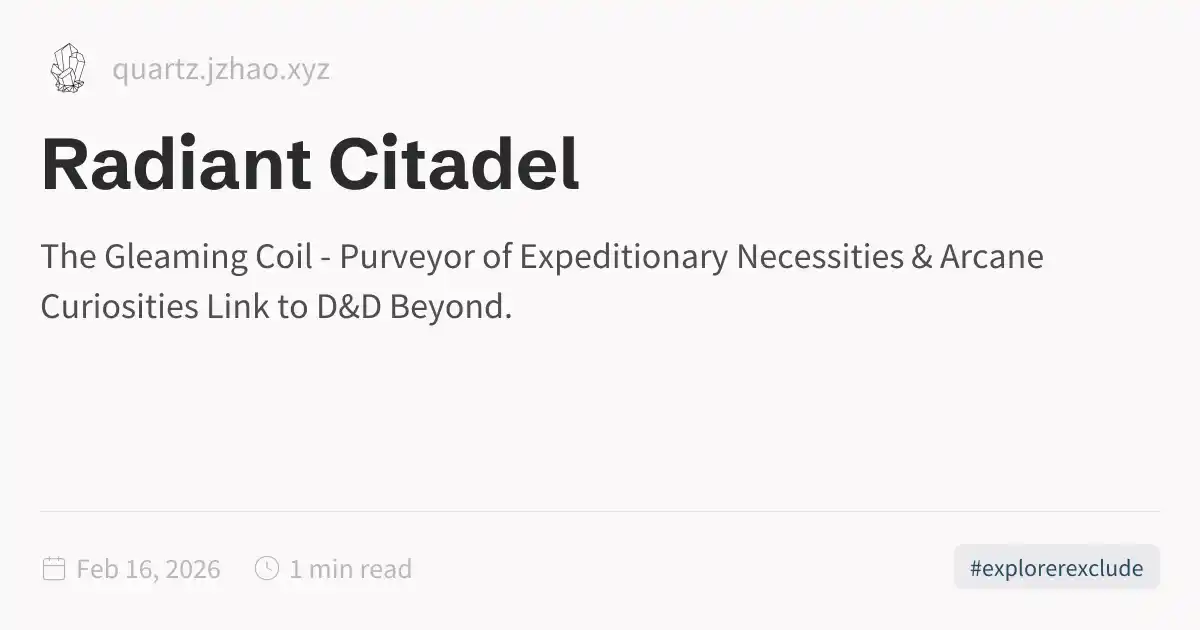
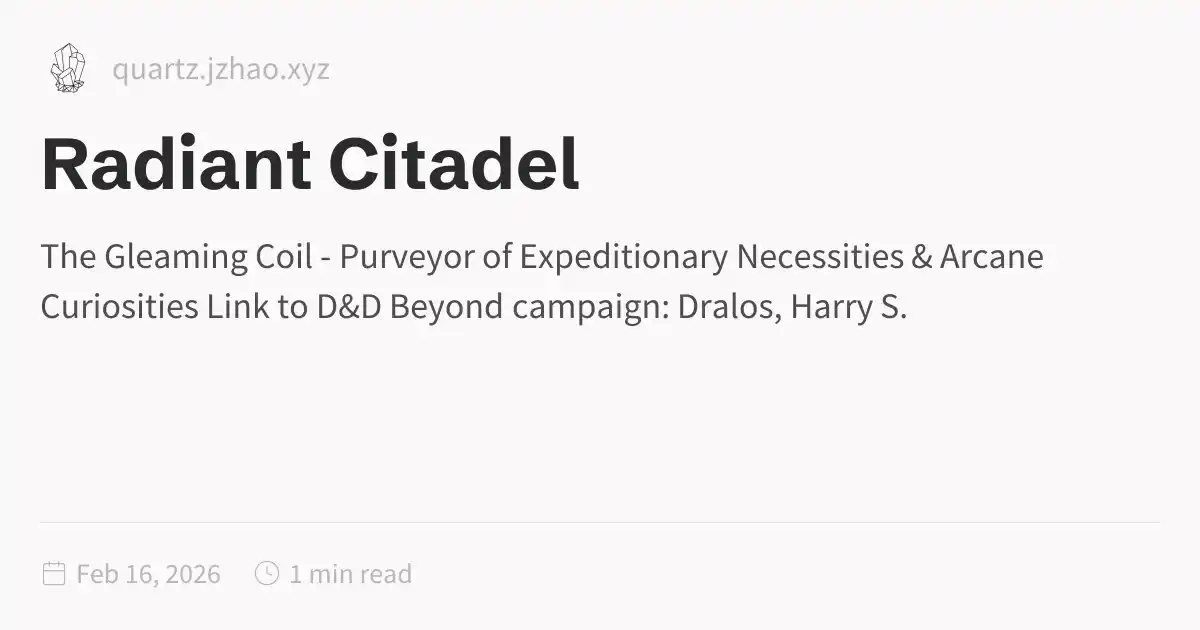
unexclude files

diff --git a/workshop/The-Gleaming-Coil.html b/workshop/The-Gleaming-Coil.html
@@ -115,7 +115,7 @@ pre:hover > .expand-button {
   padding: 0 12px;
   font-size: 14px;
 }
[2 lines of base64/hex data omitted]
 <h2 id="purveyor-of-expeditionary-necessities--arcane-curiosities">Purveyor of Expeditionary Necessities &amp; Arcane Curiosities<a role="anchor" aria-hidden="true" tabindex="-1" data-no-popover="true" href="#purveyor-of-expeditionary-necessities--arcane-curiosities" class="internal"><svg width="18" height="18" viewBox="0 0 24 24" fill="none" stroke="currentColor" stroke-width="2" stroke-linecap="round" stroke-linejoin="round"><path d="M10 13a5 5 0 0 0 7.54.54l3-3a5 5 0 0 0-7.07-7.07l-1.72 1.71"></path><path d="M14 11a5 5 0 0 0-7.54-.54l-3 3a5 5 0 0 0 7.07 7.07l1.71-1.71"></path></svg></a></h2>
 <p><em>Located in the bustling Trade Disc of the Radiant Citadel, nestled between a perfume merchant and a cartographer’s studio</em></p>
 <p><em>This content was generated with Claude.ai</em></p>
@@ -262,7 +262,7 @@ pre:hover > .expand-button {
                 C46.042,11.405,47.451,12,49,12c3.309,0,6-2.691,6-6S52.309,0,49,0z M11,9c0-1.103,0.897-2,2-2s2,0.897,2,2s-0.897,2-2,2
                 S11,10.103,11,9z M6,51c-2.206,0-4-1.794-4-4s1.794-4,4-4s4,1.794,4,4S8.206,51,6,51z M33,49c0,2.206-1.794,4-4,4s-4-1.794-4-4
                 s1.794-4,4-4S33,46.794,33,49z M29,31c-3.309,0-6-2.691-6-6s2.691-6,6-6s6,2.691,6,6S32.309,31,29,31z M47,41c0,1.103-0.897,2-2,2
-                s-2-0.897-2-2s0.897-2,2-2S47,39.897,47,41z M49,10c-2.206,0-4-1.794-4-4s1.794-4,4-4s4,1.794,4,4S51.206,10,49,10z"></path></svg></button></div><div class="global-graph-outer"><div class="global-graph-container" data-cfg="{&quot;drag&quot;:true,&quot;zoom&quot;:true,&quot;depth&quot;:-1,&quot;scale&quot;:0.9,&quot;repelForce&quot;:0.5,&quot;centerForce&quot;:0.2,&quot;linkDistance&quot;:30,&quot;fontSize&quot;:0.6,&quot;opacityScale&quot;:1,&quot;showTags&quot;:true,&quot;removeTags&quot;:[],&quot;focusOnHover&quot;:true,&quot;enableRadial&quot;:true}"></div></div></div><div class="toc desktop-only"><button type="button" class="toc-header" aria-controls="toc-8" aria-expanded="true"><h3>Table of Contents</h3><svg xmlns="http://www.w3.org/2000/svg" width="24" height="24" viewBox="0 0 24 24" fill="none" stroke="currentColor" stroke-width="2" stroke-linecap="round" stroke-linejoin="round" class="fold"><polyline points="6 9 12 15 18 9"></polyline></svg></button><ul id="list-1" class="toc-content overflow"><li class="depth-0"><a href="#the-gleaming-coil---shop-in-the-radiant-citadel-trade-discal" data-for="the-gleaming-coil---shop-in-the-radiant-citadel-trade-discal">The Gleaming Coil - Shop in the Radiant Citadel Trade Discal</a></li><li class="depth-1"><a href="#purveyor-of-expeditionary-necessities--arcane-curiosities" data-for="purveyor-of-expeditionary-necessities--arcane-curiosities">Purveyor of Expeditionary Necessities &amp; Arcane Curiosities</a></li><li class="depth-2"><a href="#the-shop" data-for="the-shop">The Shop</a></li><li class="depth-1"><a href="#standard-adventuring-gear" data-for="standard-adventuring-gear">Standard Adventuring Gear</a></li><li class="depth-1"><a href="#magical-items-for-sale" data-for="magical-items-for-sale">Magical Items for Sale</a></li><li class="depth-2"><a href="#common-magic-items-100-gp-each" data-for="common-magic-items-100-gp-each">Common Magic Items (100 gp each)</a></li><li class="depth-2"><a href="#uncommon-magic-items" data-for="uncommon-magic-items">Uncommon Magic Items</a></li><li class="depth-2"><a href="#rare-magic-items-special-order" data-for="rare-magic-items-special-order">Rare Magic Items (Special Order)</a></li><li class="depth-1"><a href="#potions--consumables" data-for="potions--consumables">Potions &amp; Consumables</a></li><li class="depth-1"><a href="#services" data-for="services">Services</a></li><li class="depth-0"><a href="#additional-specialized-items-at-the-gleaming-coil" data-for="additional-specialized-items-at-the-gleaming-coil">Additional Specialized Items at The Gleaming Coil</a></li><li class="depth-1"><a href="#for-the-warlock" data-for="for-the-warlock">For the Warlock</a></li><li class="depth-2"><a href="#uncommon-items" data-for="uncommon-items">Uncommon Items</a></li><li class="depth-1"><a href="#for-the-cleric" data-for="for-the-cleric">For the Cleric</a></li><li class="depth-2"><a href="#uncommon-items-1" data-for="uncommon-items-1">Uncommon Items</a></li><li class="depth-1"><a href="#for-the-goliath-barbarian" data-for="for-the-goliath-barbarian">For the Goliath Barbarian</a></li><li class="depth-2"><a href="#uncommon-items-2" data-for="uncommon-items-2">Uncommon Items</a></li><li class="depth-1"><a href="#for-the-rogue" data-for="for-the-rogue">For the Rogue</a></li><li class="depth-2"><a href="#uncommon-items-3" data-for="uncommon-items-3">Uncommon Items</a></li><li class="depth-1"><a href="#additional-services-for-specialists" data-for="additional-services-for-specialists">Additional Services for Specialists</a></li><li class="depth-1"><a href="#kalistas-special-offer" data-for="kalistas-special-offer">Kalista’s Special Offer</a></li><li class="overflow-end"></li></ul></div><div class="backlinks"><h3>Backlinks</h3><ul id="list-2" class="overflow"><li><a href="./Radiant-Citadel" class="internal">Radiant Citadel</a></li><li class="overflow-end"></li></ul></div></div><footer class><p>Created with <a href="https://quartz.jzhao.xyz/">Quartz v4.5.2</a> © 2026</p><ul><li><a href="https://github.com/jackyzha0/quartz">GitHub</a></li><li><a href="https://discord.gg/cRFFHYye7t">Discord Community</a></li></ul></footer></div></div></body><script type="application/javascript" data-persist="true">function n(){let t=this.parentElement;t.classList.toggle("is-collapsed");let e=t.getElementsByClassName("callout-content")[0];if(!e)return;let l=t.classList.contains("is-collapsed");e.style.gridTemplateRows=l?"0fr":"1fr"}function c(){let t=document.getElementsByClassName("callout is-collapsible");for(let e of t){let l=e.getElementsByClassName("callout-title")[0],s=e.getElementsByClassName("callout-content")[0];if(!l||!s)continue;l.addEventListener("click",n),window.addCleanup(()=>l.removeEventListener("click",n));let o=e.classList.contains("is-collapsed");s.style.gridTemplateRows=o?"0fr":"1fr"}}document.addEventListener("nav",c);
+                s-2-0.897-2-2s0.897-2,2-2S47,39.897,47,41z M49,10c-2.206,0-4-1.794-4-4s1.794-4,4-4s4,1.794,4,4S51.206,10,49,10z"></path></svg></button></div><div class="global-graph-outer"><div class="global-graph-container" data-cfg="{&quot;drag&quot;:true,&quot;zoom&quot;:true,&quot;depth&quot;:-1,&quot;scale&quot;:0.9,&quot;repelForce&quot;:0.5,&quot;centerForce&quot;:0.2,&quot;linkDistance&quot;:30,&quot;fontSize&quot;:0.6,&quot;opacityScale&quot;:1,&quot;showTags&quot;:true,&quot;removeTags&quot;:[],&quot;focusOnHover&quot;:true,&quot;enableRadial&quot;:true}"></div></div></div><div class="toc desktop-only"><button type="button" class="toc-header" aria-controls="toc-24" aria-expanded="true"><h3>Table of Contents</h3><svg xmlns="http://www.w3.org/2000/svg" width="24" height="24" viewBox="0 0 24 24" fill="none" stroke="currentColor" stroke-width="2" stroke-linecap="round" stroke-linejoin="round" class="fold"><polyline points="6 9 12 15 18 9"></polyline></svg></button><ul id="list-1" class="toc-content overflow"><li class="depth-0"><a href="#the-gleaming-coil---shop-in-the-radiant-citadel-trade-discal" data-for="the-gleaming-coil---shop-in-the-radiant-citadel-trade-discal">The Gleaming Coil - Shop in the Radiant Citadel Trade Discal</a></li><li class="depth-1"><a href="#purveyor-of-expeditionary-necessities--arcane-curiosities" data-for="purveyor-of-expeditionary-necessities--arcane-curiosities">Purveyor of Expeditionary Necessities &amp; Arcane Curiosities</a></li><li class="depth-2"><a href="#the-shop" data-for="the-shop">The Shop</a></li><li class="depth-1"><a href="#standard-adventuring-gear" data-for="standard-adventuring-gear">Standard Adventuring Gear</a></li><li class="depth-1"><a href="#magical-items-for-sale" data-for="magical-items-for-sale">Magical Items for Sale</a></li><li class="depth-2"><a href="#common-magic-items-100-gp-each" data-for="common-magic-items-100-gp-each">Common Magic Items (100 gp each)</a></li><li class="depth-2"><a href="#uncommon-magic-items" data-for="uncommon-magic-items">Uncommon Magic Items</a></li><li class="depth-2"><a href="#rare-magic-items-special-order" data-for="rare-magic-items-special-order">Rare Magic Items (Special Order)</a></li><li class="depth-1"><a href="#potions--consumables" data-for="potions--consumables">Potions &amp; Consumables</a></li><li class="depth-1"><a href="#services" data-for="services">Services</a></li><li class="depth-0"><a href="#additional-specialized-items-at-the-gleaming-coil" data-for="additional-specialized-items-at-the-gleaming-coil">Additional Specialized Items at The Gleaming Coil</a></li><li class="depth-1"><a href="#for-the-warlock" data-for="for-the-warlock">For the Warlock</a></li><li class="depth-2"><a href="#uncommon-items" data-for="uncommon-items">Uncommon Items</a></li><li class="depth-1"><a href="#for-the-cleric" data-for="for-the-cleric">For the Cleric</a></li><li class="depth-2"><a href="#uncommon-items-1" data-for="uncommon-items-1">Uncommon Items</a></li><li class="depth-1"><a href="#for-the-goliath-barbarian" data-for="for-the-goliath-barbarian">For the Goliath Barbarian</a></li><li class="depth-2"><a href="#uncommon-items-2" data-for="uncommon-items-2">Uncommon Items</a></li><li class="depth-1"><a href="#for-the-rogue" data-for="for-the-rogue">For the Rogue</a></li><li class="depth-2"><a href="#uncommon-items-3" data-for="uncommon-items-3">Uncommon Items</a></li><li class="depth-1"><a href="#additional-services-for-specialists" data-for="additional-services-for-specialists">Additional Services for Specialists</a></li><li class="depth-1"><a href="#kalistas-special-offer" data-for="kalistas-special-offer">Kalista’s Special Offer</a></li><li class="overflow-end"></li></ul></div><div class="backlinks"><h3>Backlinks</h3><ul id="list-2" class="overflow"><li><a href="./Radiant-Citadel" class="internal">Radiant Citadel</a></li><li class="overflow-end"></li></ul></div></div><footer class><p>Created with <a href="https://quartz.jzhao.xyz/">Quartz v4.5.2</a> © 2026</p><ul><li><a href="https://github.com/jackyzha0/quartz">GitHub</a></li><li><a href="https://discord.gg/cRFFHYye7t">Discord Community</a></li></ul></footer></div></div></body><script type="application/javascript" data-persist="true">function n(){let t=this.parentElement;t.classList.toggle("is-collapsed");let e=t.getElementsByClassName("callout-content")[0];if(!e)return;let l=t.classList.contains("is-collapsed");e.style.gridTemplateRows=l?"0fr":"1fr"}function c(){let t=document.getElementsByClassName("callout is-collapsible");for(let e of t){let l=e.getElementsByClassName("callout-title")[0],s=e.getElementsByClassName("callout-content")[0];if(!l||!s)continue;l.addEventListener("click",n),window.addCleanup(()=>l.removeEventListener("click",n));let o=e.classList.contains("is-collapsed");s.style.gridTemplateRows=o?"0fr":"1fr"}}document.addEventListener("nav",c);
 </script><script type="module" data-persist="true">function E(a,e){if(!a)return;function t(o){o.target===this&&(o.preventDefault(),o.stopPropagation(),e())}function n(o){o.key.startsWith("Esc")&&(o.preventDefault(),e())}a?.addEventListener("click",t),window.addCleanup(()=>a?.removeEventListener("click",t)),document.addEventListener("keydown",n),window.addCleanup(()=>document.removeEventListener("keydown",n))}function f(a){for(;a.firstChild;)a.removeChild(a.firstChild)}var m=class{constructor(e,t){this.container=e;this.content=t;this.setupEventListeners(),this.setupNavigationControls(),this.resetTransform()}isDragging=!1;startPan={x:0,y:0};currentPan={x:0,y:0};scale=1;MIN_SCALE=.5;MAX_SCALE=3;cleanups=[];setupEventListeners(){let e=this.onMouseDown.bind(this),t=this.onMouseMove.bind(this),n=this.onMouseUp.bind(this),o=this.onTouchStart.bind(this),r=this.onTouchMove.bind(this),i=this.onTouchEnd.bind(this),s=this.resetTransform.bind(this);this.container.addEventListener("mousedown",e),document.addEventListener("mousemove",t),document.addEventListener("mouseup",n),this.container.addEventListener("touchstart",o,{passive:!1}),document.addEventListener("touchmove",r,{passive:!1}),document.addEventListener("touchend",i),window.addEventListener("resize",s),this.cleanups.push(()=>this.container.removeEventListener("mousedown",e),()=>document.removeEventListener("mousemove",t),()=>document.removeEventListener("mouseup",n),()=>this.container.removeEventListener("touchstart",o),()=>document.removeEventListener("touchmove",r),()=>document.removeEventListener("touchend",i),()=>window.removeEventListener("resize",s))}cleanup(){for(let e of this.cleanups)e()}setupNavigationControls(){let e=document.createElement("div");e.className="mermaid-controls";let t=this.createButton("+",()=>this.zoom(.1)),n=this.createButton("-",()=>this.zoom(-.1)),o=this.createButton("Reset",()=>this.resetTransform());e.appendChild(n),e.appendChild(o),e.appendChild(t),this.container.appendChild(e)}createButton(e,t){let n=document.createElement("button");return n.textContent=e,n.className="mermaid-control-button",n.addEventListener("click",t),window.addCleanup(()=>n.removeEventListener("click",t)),n}onMouseDown(e){e.button===0&&(this.isDragging=!0,this.startPan={x:e.clientX-this.currentPan.x,y:e.clientY-this.currentPan.y},this.container.style.cursor="grabbing")}onMouseMove(e){this.isDragging&&(e.preventDefault(),this.currentPan={x:e.clientX-this.startPan.x,y:e.clientY-this.startPan.y},this.updateTransform())}onMouseUp(){this.isDragging=!1,this.container.style.cursor="grab"}onTouchStart(e){if(e.touches.length!==1)return;this.isDragging=!0;let t=e.touches[0];this.startPan={x:t.clientX-this.currentPan.x,y:t.clientY-this.currentPan.y}}onTouchMove(e){if(!this.isDragging||e.touches.length!==1)return;e.preventDefault();let t=e.touches[0];this.currentPan={x:t.clientX-this.startPan.x,y:t.clientY-this.startPan.y},this.updateTransform()}onTouchEnd(){this.isDragging=!1}zoom(e){let t=Math.min(Math.max(this.scale+e,this.MIN_SCALE),this.MAX_SCALE),n=this.content.getBoundingClientRect(),o=n.width/2,r=n.height/2,i=t-this.scale;this.currentPan.x-=o*i,this.currentPan.y-=r*i,this.scale=t,this.updateTransform()}updateTransform(){this.content.style.transform=`translate(${this.currentPan.x}px, ${this.currentPan.y}px) scale(${this.scale})`}resetTransform(){let t=this.content.querySelector("svg").getBoundingClientRect(),n=t.width/this.scale,o=t.height/this.scale;this.scale=1,this.currentPan={x:(this.container.clientWidth-n)/2,y:(this.container.clientHeight-o)/2},this.updateTransform()}},T=["--secondary","--tertiary","--gray","--light","--lightgray","--highlight","--dark","--darkgray","--codeFont"],y;document.addEventListener("nav",async()=>{let e=document.querySelector(".center").querySelectorAll("code.mermaid");if(e.length===0)return;y||=await import("https://cdnjs.cloudflare.com/ajax/libs/mermaid/11.4.0/mermaid.esm.min.mjs");let t=y.default,n=new WeakMap;for(let r of e)n.set(r,r.innerText);async function o(){for(let s of e){s.removeAttribute("data-processed");let c=n.get(s);c&&(s.innerHTML=c)}let r=T.reduce((s,c)=>(s[c]=window.getComputedStyle(document.documentElement).getPropertyValue(c),s),{}),i=document.documentElement.getAttribute("saved-theme")==="dark";t.initialize({startOnLoad:!1,securityLevel:"loose",theme:i?"dark":"base",themeVariables:{fontFamily:r["--codeFont"],primaryColor:r["--light"],primaryTextColor:r["--darkgray"],primaryBorderColor:r["--tertiary"],lineColor:r["--darkgray"],secondaryColor:r["--secondary"],tertiaryColor:r["--tertiary"],clusterBkg:r["--light"],edgeLabelBackground:r["--highlight"]}}),await t.run({nodes:e})}await o(),document.addEventListener("themechange",o),window.addCleanup(()=>document.removeEventListener("themechange",o));for(let r=0;r<e.length;r++){let v=function(){let g=l.querySelector("#mermaid-space"),h=l.querySelector(".mermaid-content");if(!h)return;f(h);let w=i.querySelector("svg").cloneNode(!0);h.appendChild(w),l.classList.add("active"),g.style.cursor="grab",u=new m(g,h)},M=function(){l.classList.remove("active"),u?.cleanup(),u=null},i=e[r],s=i.parentElement,c=s.querySelector(".clipboard-button"),d=s.querySelector(".expand-button"),p=window.getComputedStyle(c),L=c.offsetWidth+parseFloat(p.marginLeft||"0")+parseFloat(p.marginRight||"0");d.style.right=`calc(${L}px + 0.3rem)`,s.prepend(d);let l=s.querySelector("#mermaid-container");if(!l)return;let u=null;d.addEventListener("click",v),E(l,M),window.addCleanup(()=>{u?.cleanup(),d.removeEventListener("click",v)})}});
 </script><script src="https://cdn.jsdelivr.net/npm/katex@0.16.11/dist/contrib/copy-tex.min.js" type="application/javascript" data-persist="true"></script><script type="application/javascript" data-persist="true">
         const socket = new WebSocket('ws://localhost:3001')

diff --git a/workshop/Radiant-Citadel.html b/workshop/Radiant-Citadel.html
@@ -1,5 +1,5 @@
 <!DOCTYPE html>
-<html lang="en" dir="ltr"><head><title>Radiant Citadel</title><meta charset="utf-8"/><link rel="preconnect" href="https://fonts.googleapis.com"/><link rel="preconnect" href="https://fonts.gstatic.com"/><link rel="stylesheet" href="https://fonts.googleapis.com/css2?family=Schibsted Grotesk:wght@400;700&amp;family=Source Sans Pro:ital,wght@0,400;0,600;1,400;1,600&amp;family=IBM Plex Mono:wght@400;600&amp;display=swap"/><link rel="preconnect" href="https://cdnjs.cloudflare.com" crossorigin="anonymous"/><meta name="viewport" content="width=device-width, initial-scale=1.0"/><meta name="og:site_name" content="Quartz 4"/><meta property="og:title" content="Radiant Citadel"/><meta property="og:type" content="website"/><meta name="twitter:card" content="summary_large_image"/><meta name="twitter:title" content="Radiant Citadel"/><meta name="twitter:description" content="The Gleaming Coil - Purveyor of Expeditionary Necessities &amp; Arcane Curiosities Link to D&amp;D Beyond."/><meta property="og:description" content="The Gleaming Coil - Purveyor of Expeditionary Necessities &amp; Arcane Curiosities Link to D&amp;D Beyond."/><meta property="og:image:alt" content="The Gleaming Coil - Purveyor of Expeditionary Necessities &amp; Arcane Curiosities Link to D&amp;D Beyond."/><meta property="twitter:domain" content="quartz.jzhao.xyz"/><meta property="og:url" content="https://quartz.jzhao.xyz/Radiant-Citadel"/><meta property="twitter:url" content="https://quartz.jzhao.xyz/Radiant-Citadel"/><link rel="icon" href="./static/icon.png"/><meta name="description" content="The Gleaming Coil - Purveyor of Expeditionary Necessities &amp; Arcane Curiosities Link to D&amp;D Beyond."/><meta name="generator" content="Quartz"/><link href="./index.css" rel="stylesheet" type="text/css" data-persist="true"/><style>.expand-button {
+<html lang="en" dir="ltr"><head><title>Radiant Citadel</title><meta charset="utf-8"/><link rel="preconnect" href="https://fonts.googleapis.com"/><link rel="preconnect" href="https://fonts.gstatic.com"/><link rel="stylesheet" href="https://fonts.googleapis.com/css2?family=Schibsted Grotesk:wght@400;700&amp;family=Source Sans Pro:ital,wght@0,400;0,600;1,400;1,600&amp;family=IBM Plex Mono:wght@400;600&amp;display=swap"/><link rel="preconnect" href="https://cdnjs.cloudflare.com" crossorigin="anonymous"/><meta name="viewport" content="width=device-width, initial-scale=1.0"/><meta name="og:site_name" content="Quartz 4"/><meta property="og:title" content="Radiant Citadel"/><meta property="og:type" content="website"/><meta name="twitter:card" content="summary_large_image"/><meta name="twitter:title" content="Radiant Citadel"/><meta name="twitter:description" content="The Gleaming Coil - Purveyor of Expeditionary Necessities &amp; Arcane Curiosities Link to D&amp;D Beyond campaign: Dralos, Harry S."/><meta property="og:description" content="The Gleaming Coil - Purveyor of Expeditionary Necessities &amp; Arcane Curiosities Link to D&amp;D Beyond campaign: Dralos, Harry S."/><meta property="og:image:alt" content="The Gleaming Coil - Purveyor of Expeditionary Necessities &amp; Arcane Curiosities Link to D&amp;D Beyond campaign: Dralos, Harry S."/><meta property="twitter:domain" content="quartz.jzhao.xyz"/><meta property="og:url" content="https://quartz.jzhao.xyz/Radiant-Citadel"/><meta property="twitter:url" content="https://quartz.jzhao.xyz/Radiant-Citadel"/><link rel="icon" href="./static/icon.png"/><meta name="description" content="The Gleaming Coil - Purveyor of Expeditionary Necessities &amp; Arcane Curiosities Link to D&amp;D Beyond campaign: Dralos, Harry S."/><meta name="generator" content="Quartz"/><link href="./index.css" rel="stylesheet" type="text/css" data-persist="true"/><style>.expand-button {
   position: absolute;
   display: flex;
   float: right;
@@ -115,8 +115,8 @@ pre:hover > .expand-button {
   padding: 0 12px;
   font-size: 14px;
 }
[1 lines of base64/hex data omitted]
-<p>Link to D&amp;D Beyond</p></article><hr/><div class="page-footer"></div></div><div class="right sidebar"><div class="graph"><h3>Graph View</h3><div class="graph-outer"><div class="graph-container" data-cfg="{&quot;drag&quot;:true,&quot;zoom&quot;:true,&quot;depth&quot;:1,&quot;scale&quot;:1.1,&quot;repelForce&quot;:0.5,&quot;centerForce&quot;:0.3,&quot;linkDistance&quot;:30,&quot;fontSize&quot;:0.6,&quot;opacityScale&quot;:1,&quot;showTags&quot;:true,&quot;removeTags&quot;:[],&quot;focusOnHover&quot;:false,&quot;enableRadial&quot;:false}"></div><button class="global-graph-icon" aria-label="Global Graph"><svg version="1.1" xmlns="http://www.w3.org/2000/svg" xmlns:xlink="http://www.w3.org/1999/xlink" x="0px" y="0px" viewBox="0 0 55 55" fill="currentColor" xml:space="preserve"><path d="M49,0c-3.309,0-6,2.691-6,6c0,1.035,0.263,2.009,0.726,2.86l-9.829,9.829C32.542,17.634,30.846,17,29,17
[1 lines of base64/hex data omitted]
+<p><a href="https://www.dndbeyond.com/campaigns/6397687" class="external">Link to D&amp;D Beyond campaign<svg aria-hidden="true" class="external-icon" style="max-width:0.8em;max-height:0.8em;" viewBox="0 0 512 512"><path d="M320 0H288V64h32 82.7L201.4 265.4 178.7 288 224 333.3l22.6-22.6L448 109.3V192v32h64V192 32 0H480 320zM32 32H0V64 480v32H32 456h32V480 352 320H424v32 96H64V96h96 32V32H160 32z"></path></svg></a>: Dralos, Harry S. Truman, Hamfast, and Ig</p></article><hr/><div class="page-footer"></div></div><div class="right sidebar"><div class="graph"><h3>Graph View</h3><div class="graph-outer"><div class="graph-container" data-cfg="{&quot;drag&quot;:true,&quot;zoom&quot;:true,&quot;depth&quot;:1,&quot;scale&quot;:1.1,&quot;repelForce&quot;:0.5,&quot;centerForce&quot;:0.3,&quot;linkDistance&quot;:30,&quot;fontSize&quot;:0.6,&quot;opacityScale&quot;:1,&quot;showTags&quot;:true,&quot;removeTags&quot;:[],&quot;focusOnHover&quot;:false,&quot;enableRadial&quot;:false}"></div><button class="global-graph-icon" aria-label="Global Graph"><svg version="1.1" xmlns="http://www.w3.org/2000/svg" xmlns:xlink="http://www.w3.org/1999/xlink" x="0px" y="0px" viewBox="0 0 55 55" fill="currentColor" xml:space="preserve"><path d="M49,0c-3.309,0-6,2.691-6,6c0,1.035,0.263,2.009,0.726,2.86l-9.829,9.829C32.542,17.634,30.846,17,29,17
                 s-3.542,0.634-4.898,1.688l-7.669-7.669C16.785,10.424,17,9.74,17,9c0-2.206-1.794-4-4-4S9,6.794,9,9s1.794,4,4,4
                 c0.74,0,1.424-0.215,2.019-0.567l7.669,7.669C21.634,21.458,21,23.154,21,25s0.634,3.542,1.688,4.897L10.024,42.562
                 C8.958,41.595,7.549,41,6,41c-3.309,0-6,2.691-6,6s2.691,6,6,6s6-2.691,6-6c0-1.035-0.263-2.009-0.726-2.86l12.829-12.829

diff --git a/workshop/tags/explorerexclude.html b/workshop/tags/explorerexclude.html
@@ -115,7 +115,7 @@ pre:hover > .expand-button {
   padding: 0 12px;
   font-size: 14px;
 }
[2 lines of base64/hex data omitted]
 </script><script type="module" data-persist="true">function E(a,e){if(!a)return;function t(o){o.target===this&&(o.preventDefault(),o.stopPropagation(),e())}function n(o){o.key.startsWith("Esc")&&(o.preventDefault(),e())}a?.addEventListener("click",t),window.addCleanup(()=>a?.removeEventListener("click",t)),document.addEventListener("keydown",n),window.addCleanup(()=>document.removeEventListener("keydown",n))}function f(a){for(;a.firstChild;)a.removeChild(a.firstChild)}var m=class{constructor(e,t){this.container=e;this.content=t;this.setupEventListeners(),this.setupNavigationControls(),this.resetTransform()}isDragging=!1;startPan={x:0,y:0};currentPan={x:0,y:0};scale=1;MIN_SCALE=.5;MAX_SCALE=3;cleanups=[];setupEventListeners(){let e=this.onMouseDown.bind(this),t=this.onMouseMove.bind(this),n=this.onMouseUp.bind(this),o=this.onTouchStart.bind(this),r=this.onTouchMove.bind(this),i=this.onTouchEnd.bind(this),s=this.resetTransform.bind(this);this.container.addEventListener("mousedown",e),document.addEventListener("mousemove",t),document.addEventListener("mouseup",n),this.container.addEventListener("touchstart",o,{passive:!1}),document.addEventListener("touchmove",r,{passive:!1}),document.addEventListener("touchend",i),window.addEventListener("resize",s),this.cleanups.push(()=>this.container.removeEventListener("mousedown",e),()=>document.removeEventListener("mousemove",t),()=>document.removeEventListener("mouseup",n),()=>this.container.removeEventListener("touchstart",o),()=>document.removeEventListener("touchmove",r),()=>document.removeEventListener("touchend",i),()=>window.removeEventListener("resize",s))}cleanup(){for(let e of this.cleanups)e()}setupNavigationControls(){let e=document.createElement("div");e.className="mermaid-controls";let t=this.createButton("+",()=>this.zoom(.1)),n=this.createButton("-",()=>this.zoom(-.1)),o=this.createButton("Reset",()=>this.resetTransform());e.appendChild(n),e.appendChild(o),e.appendChild(t),this.container.appendChild(e)}createButton(e,t){let n=document.createElement("button");return n.textContent=e,n.className="mermaid-control-button",n.addEventListener("click",t),window.addCleanup(()=>n.removeEventListener("click",t)),n}onMouseDown(e){e.button===0&&(this.isDragging=!0,this.startPan={x:e.clientX-this.currentPan.x,y:e.clientY-this.currentPan.y},this.container.style.cursor="grabbing")}onMouseMove(e){this.isDragging&&(e.preventDefault(),this.currentPan={x:e.clientX-this.startPan.x,y:e.clientY-this.startPan.y},this.updateTransform())}onMouseUp(){this.isDragging=!1,this.container.style.cursor="grab"}onTouchStart(e){if(e.touches.length!==1)return;this.isDragging=!0;let t=e.touches[0];this.startPan={x:t.clientX-this.currentPan.x,y:t.clientY-this.currentPan.y}}onTouchMove(e){if(!this.isDragging||e.touches.length!==1)return;e.preventDefault();let t=e.touches[0];this.currentPan={x:t.clientX-this.startPan.x,y:t.clientY-this.startPan.y},this.updateTransform()}onTouchEnd(){this.isDragging=!1}zoom(e){let t=Math.min(Math.max(this.scale+e,this.MIN_SCALE),this.MAX_SCALE),n=this.content.getBoundingClientRect(),o=n.width/2,r=n.height/2,i=t-this.scale;this.currentPan.x-=o*i,this.currentPan.y-=r*i,this.scale=t,this.updateTransform()}updateTransform(){this.content.style.transform=`translate(${this.currentPan.x}px, ${this.currentPan.y}px) scale(${this.scale})`}resetTransform(){let t=this.content.querySelector("svg").getBoundingClientRect(),n=t.width/this.scale,o=t.height/this.scale;this.scale=1,this.currentPan={x:(this.container.clientWidth-n)/2,y:(this.container.clientHeight-o)/2},this.updateTransform()}},T=["--secondary","--tertiary","--gray","--light","--lightgray","--highlight","--dark","--darkgray","--codeFont"],y;document.addEventListener("nav",async()=>{let e=document.querySelector(".center").querySelectorAll("code.mermaid");if(e.length===0)return;y||=await import("https://cdnjs.cloudflare.com/ajax/libs/mermaid/11.4.0/mermaid.esm.min.mjs");let t=y.default,n=new WeakMap;for(let r of e)n.set(r,r.innerText);async function o(){for(let s of e){s.removeAttribute("data-processed");let c=n.get(s);c&&(s.innerHTML=c)}let r=T.reduce((s,c)=>(s[c]=window.getComputedStyle(document.documentElement).getPropertyValue(c),s),{}),i=document.documentElement.getAttribute("saved-theme")==="dark";t.initialize({startOnLoad:!1,securityLevel:"loose",theme:i?"dark":"base",themeVariables:{fontFamily:r["--codeFont"],primaryColor:r["--light"],primaryTextColor:r["--darkgray"],primaryBorderColor:r["--tertiary"],lineColor:r["--darkgray"],secondaryColor:r["--secondary"],tertiaryColor:r["--tertiary"],clusterBkg:r["--light"],edgeLabelBackground:r["--highlight"]}}),await t.run({nodes:e})}await o(),document.addEventListener("themechange",o),window.addCleanup(()=>document.removeEventListener("themechange",o));for(let r=0;r<e.length;r++){let v=function(){let g=l.querySelector("#mermaid-space"),h=l.querySelector(".mermaid-content");if(!h)return;f(h);let w=i.querySelector("svg").cloneNode(!0);h.appendChild(w),l.classList.add("active"),g.style.cursor="grab",u=new m(g,h)},M=function(){l.classList.remove("active"),u?.cleanup(),u=null},i=e[r],s=i.parentElement,c=s.querySelector(".clipboard-button"),d=s.querySelector(".expand-button"),p=window.getComputedStyle(c),L=c.offsetWidth+parseFloat(p.marginLeft||"0")+parseFloat(p.marginRight||"0");d.style.right=`calc(${L}px + 0.3rem)`,s.prepend(d);let l=s.querySelector("#mermaid-container");if(!l)return;let u=null;d.addEventListener("click",v),E(l,M),window.addCleanup(()=>{u?.cleanup(),d.removeEventListener("click",v)})}});
 </script><script src="https://cdn.jsdelivr.net/npm/katex@0.16.11/dist/contrib/copy-tex.min.js" type="application/javascript" data-persist="true"></script><script type="application/javascript" data-persist="true">
         const socket = new WebSocket('ws://localhost:3001')

diff --git a/workshop/tags/index.html b/workshop/tags/index.html
@@ -115,7 +115,7 @@ pre:hover > .expand-button {
   padding: 0 12px;
   font-size: 14px;
 }
[2 lines of base64/hex data omitted]
 </script><script type="module" data-persist="true">function E(a,e){if(!a)return;function t(o){o.target===this&&(o.preventDefault(),o.stopPropagation(),e())}function n(o){o.key.startsWith("Esc")&&(o.preventDefault(),e())}a?.addEventListener("click",t),window.addCleanup(()=>a?.removeEventListener("click",t)),document.addEventListener("keydown",n),window.addCleanup(()=>document.removeEventListener("keydown",n))}function f(a){for(;a.firstChild;)a.removeChild(a.firstChild)}var m=class{constructor(e,t){this.container=e;this.content=t;this.setupEventListeners(),this.setupNavigationControls(),this.resetTransform()}isDragging=!1;startPan={x:0,y:0};currentPan={x:0,y:0};scale=1;MIN_SCALE=.5;MAX_SCALE=3;cleanups=[];setupEventListeners(){let e=this.onMouseDown.bind(this),t=this.onMouseMove.bind(this),n=this.onMouseUp.bind(this),o=this.onTouchStart.bind(this),r=this.onTouchMove.bind(this),i=this.onTouchEnd.bind(this),s=this.resetTransform.bind(this);this.container.addEventListener("mousedown",e),document.addEventListener("mousemove",t),document.addEventListener("mouseup",n),this.container.addEventListener("touchstart",o,{passive:!1}),document.addEventListener("touchmove",r,{passive:!1}),document.addEventListener("touchend",i),window.addEventListener("resize",s),this.cleanups.push(()=>this.container.removeEventListener("mousedown",e),()=>document.removeEventListener("mousemove",t),()=>document.removeEventListener("mouseup",n),()=>this.container.removeEventListener("touchstart",o),()=>document.removeEventListener("touchmove",r),()=>document.removeEventListener("touchend",i),()=>window.removeEventListener("resize",s))}cleanup(){for(let e of this.cleanups)e()}setupNavigationControls(){let e=document.createElement("div");e.className="mermaid-controls";let t=this.createButton("+",()=>this.zoom(.1)),n=this.createButton("-",()=>this.zoom(-.1)),o=this.createButton("Reset",()=>this.resetTransform());e.appendChild(n),e.appendChild(o),e.appendChild(t),this.container.appendChild(e)}createButton(e,t){let n=document.createElement("button");return n.textContent=e,n.className="mermaid-control-button",n.addEventListener("click",t),window.addCleanup(()=>n.removeEventListener("click",t)),n}onMouseDown(e){e.button===0&&(this.isDragging=!0,this.startPan={x:e.clientX-this.currentPan.x,y:e.clientY-this.currentPan.y},this.container.style.cursor="grabbing")}onMouseMove(e){this.isDragging&&(e.preventDefault(),this.currentPan={x:e.clientX-this.startPan.x,y:e.clientY-this.startPan.y},this.updateTransform())}onMouseUp(){this.isDragging=!1,this.container.style.cursor="grab"}onTouchStart(e){if(e.touches.length!==1)return;this.isDragging=!0;let t=e.touches[0];this.startPan={x:t.clientX-this.currentPan.x,y:t.clientY-this.currentPan.y}}onTouchMove(e){if(!this.isDragging||e.touches.length!==1)return;e.preventDefault();let t=e.touches[0];this.currentPan={x:t.clientX-this.startPan.x,y:t.clientY-this.startPan.y},this.updateTransform()}onTouchEnd(){this.isDragging=!1}zoom(e){let t=Math.min(Math.max(this.scale+e,this.MIN_SCALE),this.MAX_SCALE),n=this.content.getBoundingClientRect(),o=n.width/2,r=n.height/2,i=t-this.scale;this.currentPan.x-=o*i,this.currentPan.y-=r*i,this.scale=t,this.updateTransform()}updateTransform(){this.content.style.transform=`translate(${this.currentPan.x}px, ${this.currentPan.y}px) scale(${this.scale})`}resetTransform(){let t=this.content.querySelector("svg").getBoundingClientRect(),n=t.width/this.scale,o=t.height/this.scale;this.scale=1,this.currentPan={x:(this.container.clientWidth-n)/2,y:(this.container.clientHeight-o)/2},this.updateTransform()}},T=["--secondary","--tertiary","--gray","--light","--lightgray","--highlight","--dark","--darkgray","--codeFont"],y;document.addEventListener("nav",async()=>{let e=document.querySelector(".center").querySelectorAll("code.mermaid");if(e.length===0)return;y||=await import("https://cdnjs.cloudflare.com/ajax/libs/mermaid/11.4.0/mermaid.esm.min.mjs");let t=y.default,n=new WeakMap;for(let r of e)n.set(r,r.innerText);async function o(){for(let s of e){s.removeAttribute("data-processed");let c=n.get(s);c&&(s.innerHTML=c)}let r=T.reduce((s,c)=>(s[c]=window.getComputedStyle(document.documentElement).getPropertyValue(c),s),{}),i=document.documentElement.getAttribute("saved-theme")==="dark";t.initialize({startOnLoad:!1,securityLevel:"loose",theme:i?"dark":"base",themeVariables:{fontFamily:r["--codeFont"],primaryColor:r["--light"],primaryTextColor:r["--darkgray"],primaryBorderColor:r["--tertiary"],lineColor:r["--darkgray"],secondaryColor:r["--secondary"],tertiaryColor:r["--tertiary"],clusterBkg:r["--light"],edgeLabelBackground:r["--highlight"]}}),await t.run({nodes:e})}await o(),document.addEventListener("themechange",o),window.addCleanup(()=>document.removeEventListener("themechange",o));for(let r=0;r<e.length;r++){let v=function(){let g=l.querySelector("#mermaid-space"),h=l.querySelector(".mermaid-content");if(!h)return;f(h);let w=i.querySelector("svg").cloneNode(!0);h.appendChild(w),l.classList.add("active"),g.style.cursor="grab",u=new m(g,h)},M=function(){l.classList.remove("active"),u?.cleanup(),u=null},i=e[r],s=i.parentElement,c=s.querySelector(".clipboard-button"),d=s.querySelector(".expand-button"),p=window.getComputedStyle(c),L=c.offsetWidth+parseFloat(p.marginLeft||"0")+parseFloat(p.marginRight||"0");d.style.right=`calc(${L}px + 0.3rem)`,s.prepend(d);let l=s.querySelector("#mermaid-container");if(!l)return;let u=null;d.addEventListener("click",v),E(l,M),window.addCleanup(()=>{u?.cleanup(),d.removeEventListener("click",v)})}});
 </script><script src="https://cdn.jsdelivr.net/npm/katex@0.16.11/dist/contrib/copy-tex.min.js" type="application/javascript" data-persist="true"></script><script type="application/javascript" data-persist="true">
         const socket = new WebSocket('ws://localhost:3001')
